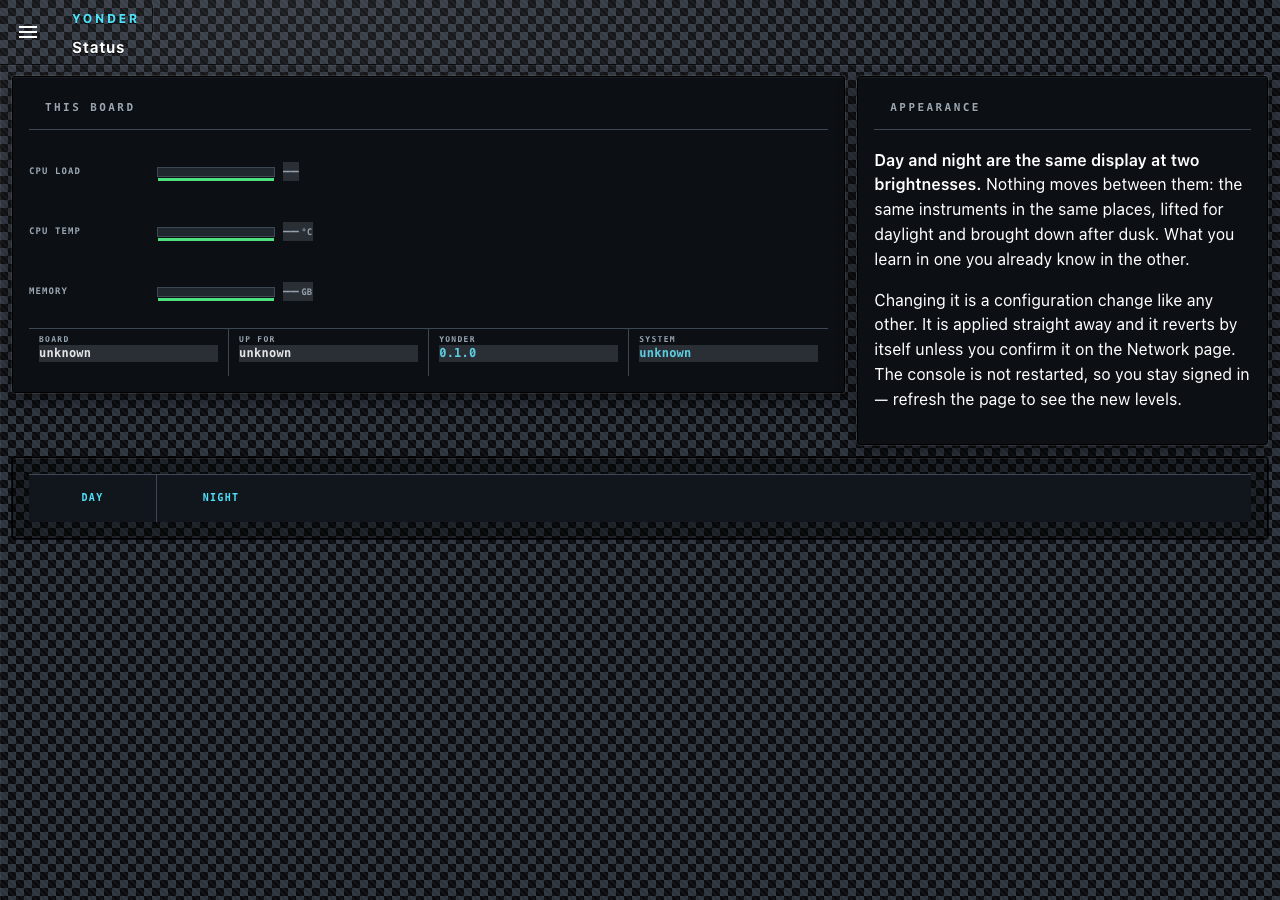
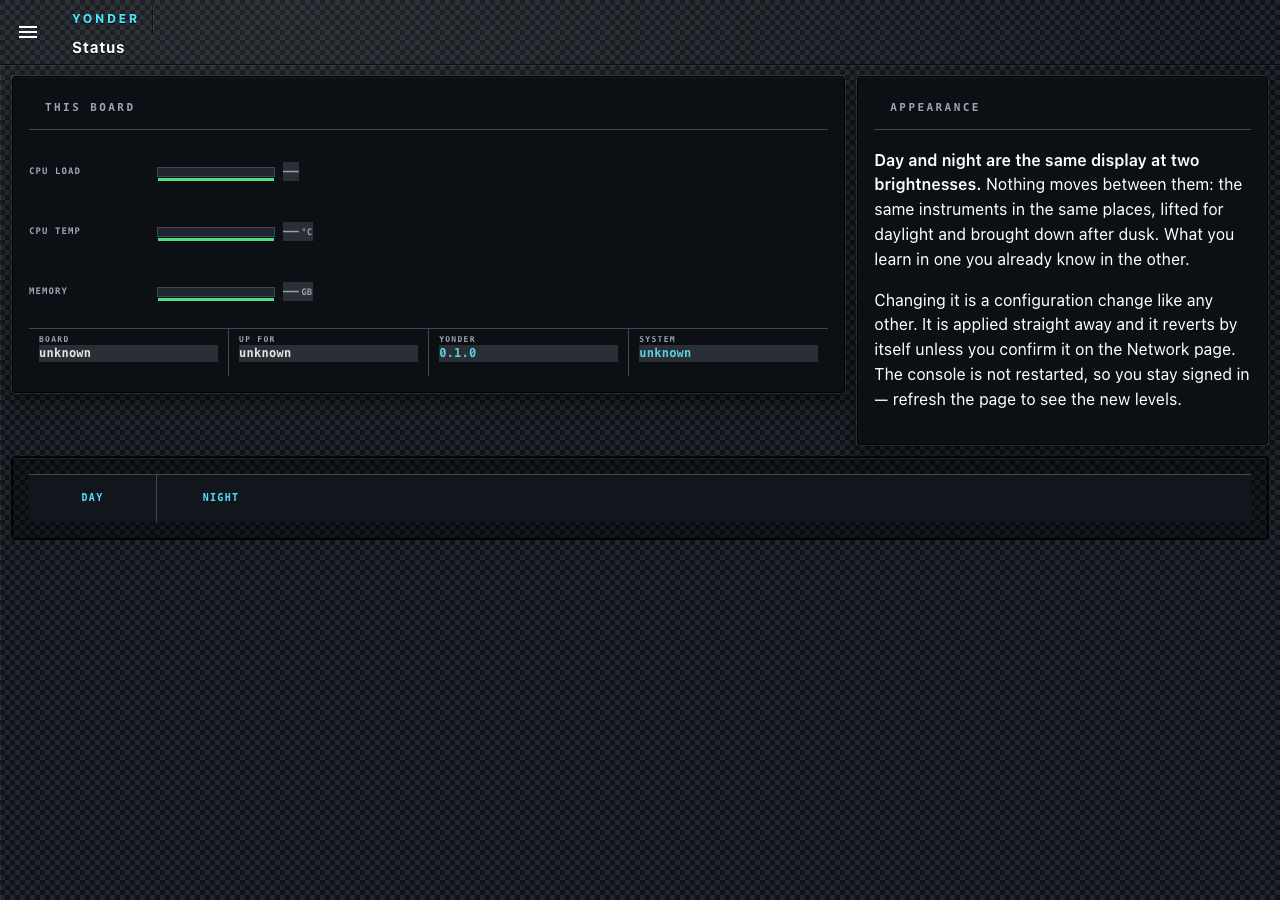
style(console): tighten the carbon to 10px and drop its light tone
At 16px with a #2c333d light tone the weave read as a checkerboard across
1280px of console rather than as fibre, and competed with the instruments it
is meant to sit behind. That looked right on the narrow bezel of a mockup and
wrong on a full page — the same mistake in the opposite direction to the first
attempt, which used four tones within ten RGB values of each other and
rendered as nothing at all.

10px cell with a 5px offset, the light tone pulled from #2c333d to #1e242b —
close enough to the #12151a base to be felt rather than read — the dark tone
lifted from #090b0e to #0d1014, and the grain pass finer and quieter to match.

It is chrome. The comment in theme.ts now says so, and says both ways it has
been got wrong, because the range between invisible and overpowering turned
out to be narrower than it looks.

800 tests, gate green, both palettes recaptured.

Changed region(s): [[0.0, 0.0, 1.0, 1.0]]

diff --git a/packages/yonder-core/src/console/theme.ts b/packages/yonder-core/src/console/theme.ts
@@ -289,10 +289,14 @@ html, body {
    any display, and it follows the palette instead of needing a second file
    per theme.
 
-   The weave is 16px. Smaller reads as noise at arm's length; larger reads as
-   a checkerboard. The first attempt used four tones within ten RGB values of
-   each other and rendered as nothing at all, which is a way of getting this
-   wrong that survives code review and dies the moment somebody looks.
+   The weave is 10px and its light tone sits close to the base. 16px with a
+   strong light tone reads as a checkerboard across a full page rather than as
+   fibre - fine on the narrow bezel of a mockup, overpowering on 1280px of
+   console. Both ends of this have now been wrong: the first attempt used four
+   tones within ten RGB values of each other and rendered as nothing at all,
+   which is a way of being wrong that survives code review and dies the moment
+   somebody looks; the second was loud enough to compete with the instruments.
+   It is chrome. It should be felt and not read.
 
    The sheen is a soft radial from the top left rather than a raking linear
    one. A linear sheen across the whole page lit one corner and washed the
@@ -304,13 +308,13 @@ html, body {
   background-color: #12151a;
   background-image:
     radial-gradient(120% 80% at 22% 0%, rgba(255,255,255,0.07), transparent 62%),
-    repeating-linear-gradient(45deg, rgba(255,255,255,0.05) 0 1px, transparent 1px 4px),
-    linear-gradient(45deg, #2c333d 25%, transparent 25%, transparent 75%, #2c333d 75%),
-    linear-gradient(45deg, #2c333d 25%, transparent 25%, transparent 75%, #2c333d 75%),
-    linear-gradient(135deg, #090b0e 25%, transparent 25%, transparent 75%, #090b0e 75%),
-    linear-gradient(135deg, #090b0e 25%, transparent 25%, transparent 75%, #090b0e 75%);
-  background-size: 100% 100%, 6px 6px, 16px 16px, 16px 16px, 16px 16px, 16px 16px;
-  background-position: 0 0, 0 0, 0 0, 8px 8px, 0 0, 8px 8px;
+    repeating-linear-gradient(45deg, rgba(255,255,255,0.03) 0 1px, transparent 1px 3px),
+    linear-gradient(45deg, #1e242b 25%, transparent 25%, transparent 75%, #1e242b 75%),
+    linear-gradient(45deg, #1e242b 25%, transparent 25%, transparent 75%, #1e242b 75%),
+    linear-gradient(135deg, #0d1014 25%, transparent 25%, transparent 75%, #0d1014 75%),
+    linear-gradient(135deg, #0d1014 25%, transparent 25%, transparent 75%, #0d1014 75%);
+  background-size: 100% 100%, 4px 4px, 10px 10px, 10px 10px, 10px 10px, 10px 10px;
+  background-position: 0 0, 0 0, 0 0, 5px 5px, 0 0, 5px 5px;
   /* Stated, never inherited. Vuetify sets background-repeat: no-repeat
      on .v-application__wrap, so leaving this to the CSS default painted
      exactly one 16px tile in the top-left corner of the page and nothing
